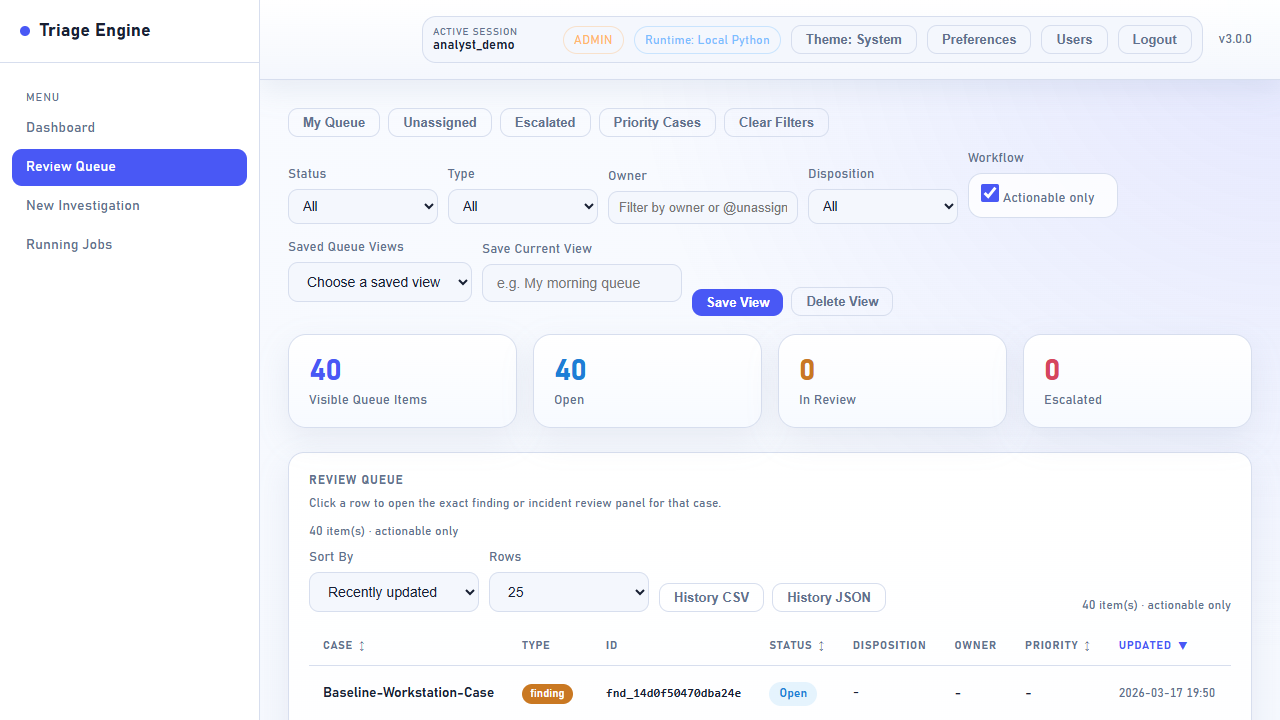
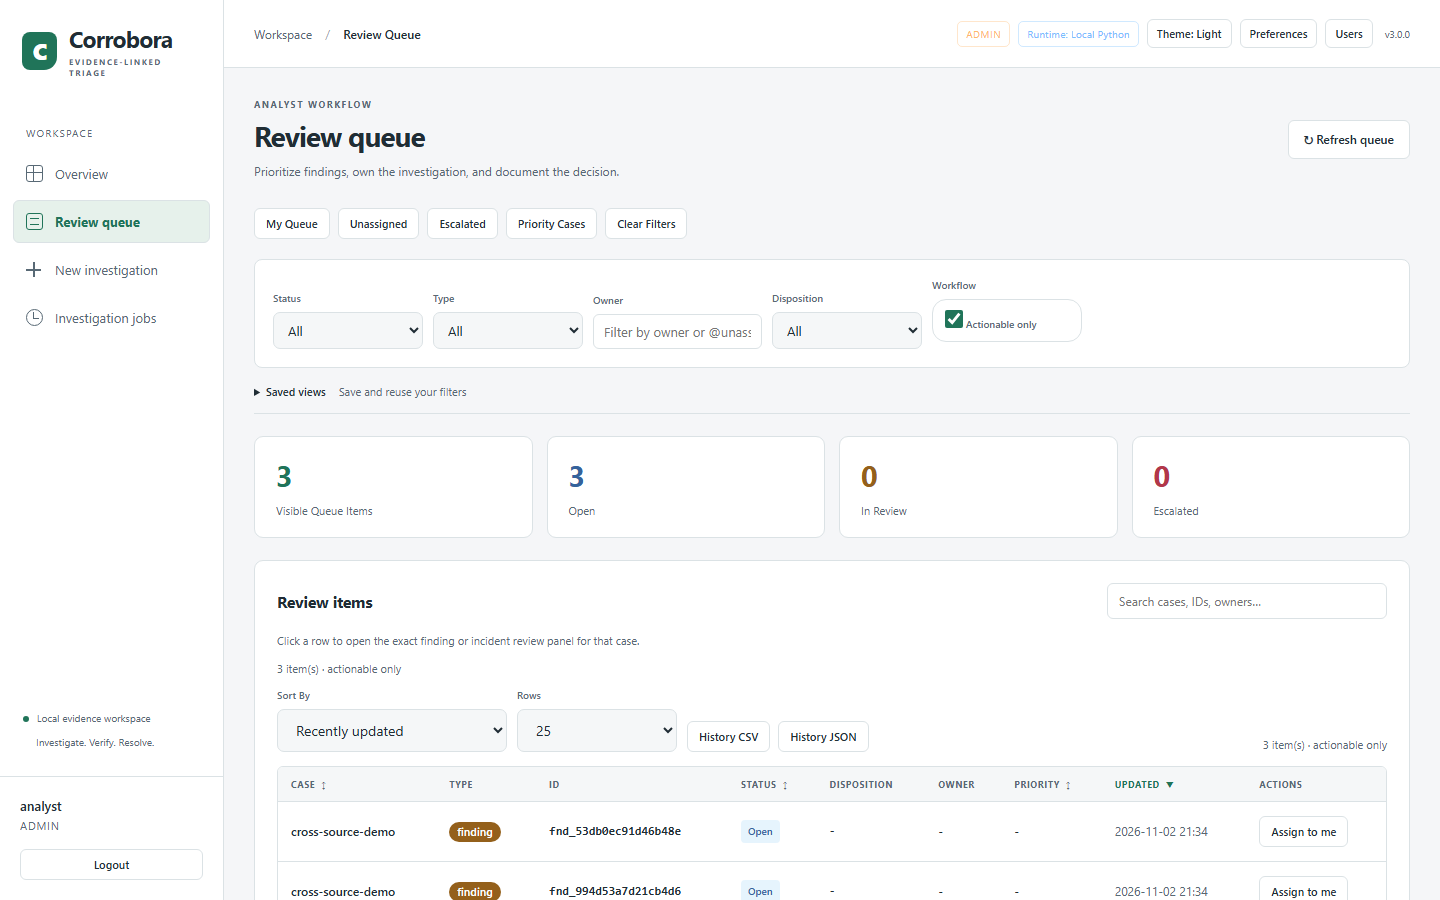
Retake README screenshots with the Corrobora branding
All views come from one public EVTX sample paired with synthetic artifacts. The baseline and attack case images, which showed the old interface, are replaced by case overview and source coverage views.

diff --git a/README.md b/README.md
@@ -26,15 +26,29 @@ Formerly Triage Engine. The `triage` command and `TRIAGE_*` settings still work.
 
 ## Screenshots
 
+The screenshots below show one case: a public EVTX sample (`sysmon_1_11_exec_as_system_via_schedtask.evtx`) paired with synthetic, labelled artifacts. Nothing in them comes from a real host.
+
 ### Investigation Overview
 
 Case priorities, review workload, and searchable case history.
 
 ![Investigation Overview](./screenshots/workspace-overview.png)
 
+### Case Overview
+
+The triage disposition, next steps, and the host, user, and time range the evidence covers.
+
+![Case Overview](./screenshots/case-overview.png)
+
+### Source Coverage
+
+Which kinds of evidence were supplied, how many records each produced, and what could not be linked.
+
+![Source Coverage](./screenshots/source-coverage.png)
+
 ### Evidence Links
 
-Source coverage, event-to-artifact links with what each one does and does not show, analyst decisions, and the artifact observations. The case is a public EVTX sample paired with synthetic artifacts.
+Each event-to-artifact link shows the matching fields, its class, what it does not establish, and the analyst's decision.
 
 ![Evidence Links](./screenshots/workspace-evidence.png)
 
@@ -48,21 +62,9 @@ Review status, ownership, and assignment.
 
 ![Review Queue](./screenshots/review-queue.png)
 
-### Baseline Case
-
-A quieter case used as a comparison point.
-
-![Baseline Case](./screenshots/baseline-case-overview.png)
-
-### Attack Case
-
-A case with findings, incidents, and analyst notes.
-
-![Attack Case](./screenshots/attack-case-overview.png)
-
 ### Finding Detail
 
-Finding status, disposition, owner, notes, and evidence.
+Findings with severity, confidence, host, user, and analyst review.
 
 ![Finding Detail](./screenshots/finding-detail.png)
 
